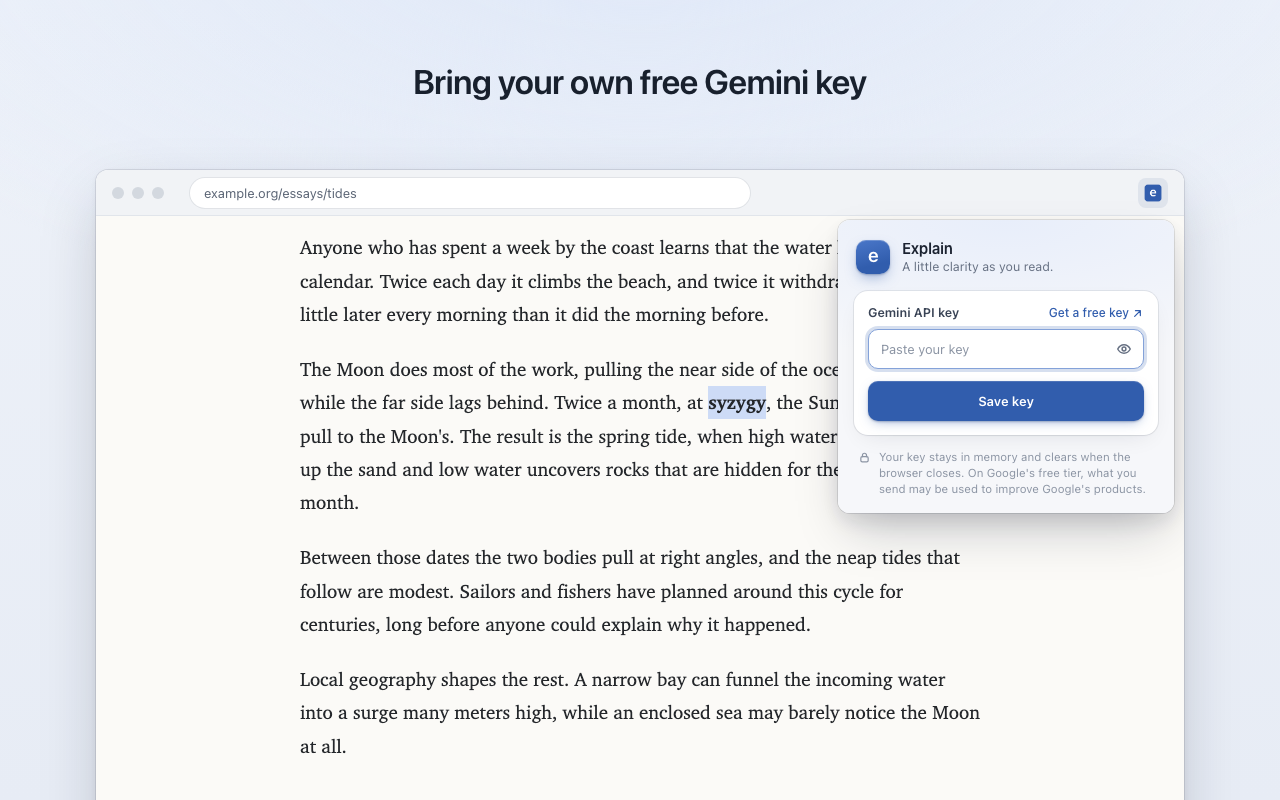
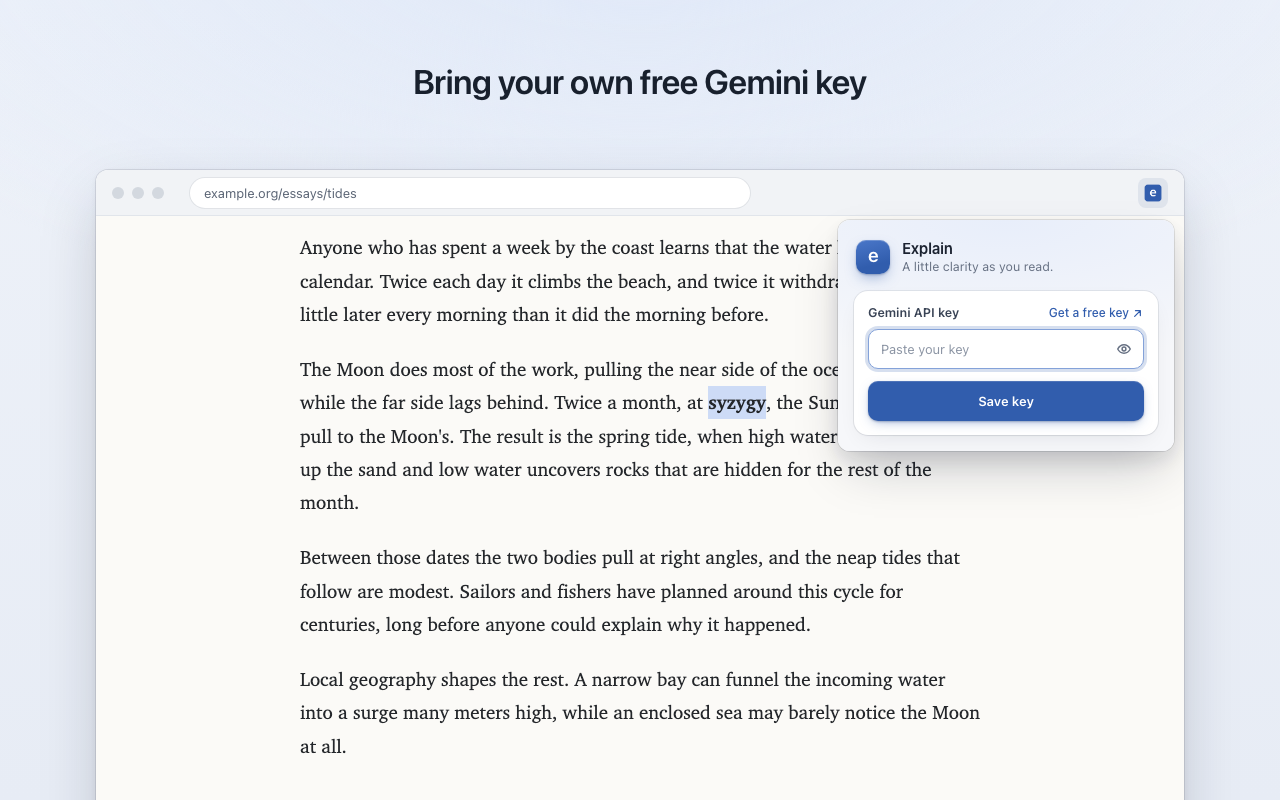
Popup: drop the usage line and key hint; the README and store listing cover them

Changed region(s): [[0.6562, 0.5625, 0.9375, 0.6875]]

diff --git a/extension/popup.html b/extension/popup.html
@@ -24,7 +24,6 @@
             <p>Your key is saved.</p>
           </div>
         </div>
-        <p class="usage">Select text on any page, right-click it, and choose <strong>Explain</strong>.</p>
         <button id="replace" class="quiet" type="button" aria-controls="key-form" aria-expanded="false">Replace key</button>
       </section>
       <form id="key-form" class="panel" novalidate hidden>
@@ -33,7 +32,7 @@
           <a class="help" href="https://aistudio.google.com/apikey" target="_blank" rel="noreferrer">Get a free key<svg viewBox="0 0 16 16" aria-hidden="true"><path d="M5.5 4.5h6v6M11.25 4.75 4.5 11.5"/></svg></a>
         </div>
         <div class="key-input">
-          <input id="api-key" name="apiKey" type="password" autocomplete="off" spellcheck="false" placeholder="Paste your key" required aria-describedby="key-error key-hint">
+          <input id="api-key" name="apiKey" type="password" autocomplete="off" spellcheck="false" placeholder="Paste your key" required aria-describedby="key-error">
           <button id="toggle-key" type="button" aria-label="Show API key" aria-controls="api-key" aria-pressed="false">
             <svg class="eye" viewBox="0 0 16 16" aria-hidden="true"><path d="M1.75 8S4 3.75 8 3.75 14.25 8 14.25 8 12 12.25 8 12.25 1.75 8 1.75 8Z"/><circle cx="8" cy="8" r="1.9"/></svg>
             <svg class="eye-off" viewBox="0 0 16 16" aria-hidden="true"><path d="M6.4 4a6.6 6.6 0 0 1 1.6-.25C12 3.75 14.25 8 14.25 8a11 11 0 0 1-1.6 2.1M4.2 5.1A10.6 10.6 0 0 0 1.75 8S4 12.25 8 12.25a6.2 6.2 0 0 0 3.1-.85M6.65 6.65a1.9 1.9 0 0 0 2.7 2.7M2.5 2.5l11 11"/></svg>
@@ -46,7 +45,6 @@
         </div>
       </form>
       <p id="status" role="status" aria-live="polite"></p>
-      <p id="key-hint" class="hint"><svg viewBox="0 0 16 16" aria-hidden="true"><rect x="3.5" y="7" width="9" height="6.5" rx="1.75"/><path d="M5.5 7V5.25a2.5 2.5 0 0 1 5 0V7"/></svg><span>Your key is saved in this browser only and is never synced. On Google's free tier, what you send may be used to improve Google's products.</span></p>
     </main>
   </body>
 </html>

diff --git a/extension/popup.css b/extension/popup.css
@@ -64,8 +64,6 @@ main[data-state="replacing"] form { animation: rise 220ms var(--ease); }
 .check svg { width: 16px; height: 16px; stroke-width: 2; }
 h2 { font-size: 13.5px; line-height: 18px; font-weight: 600; }
 .ready-head p { color: var(--muted); font-size: 12px; line-height: 16px; }
-.usage { margin-top: 12px; padding-top: 12px; border-top: 1px solid var(--line); color: var(--ink-2); }
-.usage strong { color: var(--blue); font-weight: 600; }
 
 button, input { font: inherit; color: inherit; }
 button {
@@ -135,8 +133,6 @@ form[aria-busy="true"] .spinner { display: block; }
 #status { margin: 10px 0 0; border-radius: 10px; padding: 8px 12px; background: var(--red-soft); color: var(--red); font-size: 12px; line-height: 16px; }
 /* Success is shown by the ready panel itself; the text is kept for screen readers. */
 #status[data-state="success"] { position: absolute; width: 1px; height: 1px; margin: 0; padding: 0; overflow: hidden; clip-path: inset(50%); white-space: nowrap; }
-.hint { display: flex; gap: 8px; margin: 14px 4px 0; color: var(--faint); font-size: 11.5px; line-height: 16px; }
-.hint svg { flex: 0 0 13px; height: 13px; margin-top: 1.5px; }
 
 @keyframes rise { from { opacity: 0; transform: translateY(4px); } }
 @keyframes spin { to { transform: rotate(360deg); } }

diff --git a/tests/browser_test.py b/tests/browser_test.py
@@ -290,7 +290,6 @@ async def popup_fixture(browser_type):
         assert await page.evaluate("window.pending.at(-1).message") == {"type": "save-key", "key": "fixture-test-key"}
         await page.evaluate("window.pending.at(-1).resolve({ok:true})")
         await expect(ready).to_be_visible()
-        await expect(ready).to_contain_text("right-click")
         await expect(form).to_be_hidden()
         await expect(page.locator("#status")).to_have_text("Key saved.")
         await expect(page.locator("#api-key")).to_have_value("")

diff --git a/store/make_screenshots.py b/store/make_screenshots.py
@@ -82,7 +82,7 @@ iframe{display:block;width:100%;height:644px;border:0}
 STUB = """(() => {
   window.ports = [];
   window.chrome = {
-    storage: {session: {get: async () => ({})}},
+    storage: {local: {get: async () => ({})}},
     runtime: {
       onMessage: {addListener(fn) { window.menu = selection => fn({type: 'explain', selection}); }},
       sendMessage: () => new Promise(() => {}),
